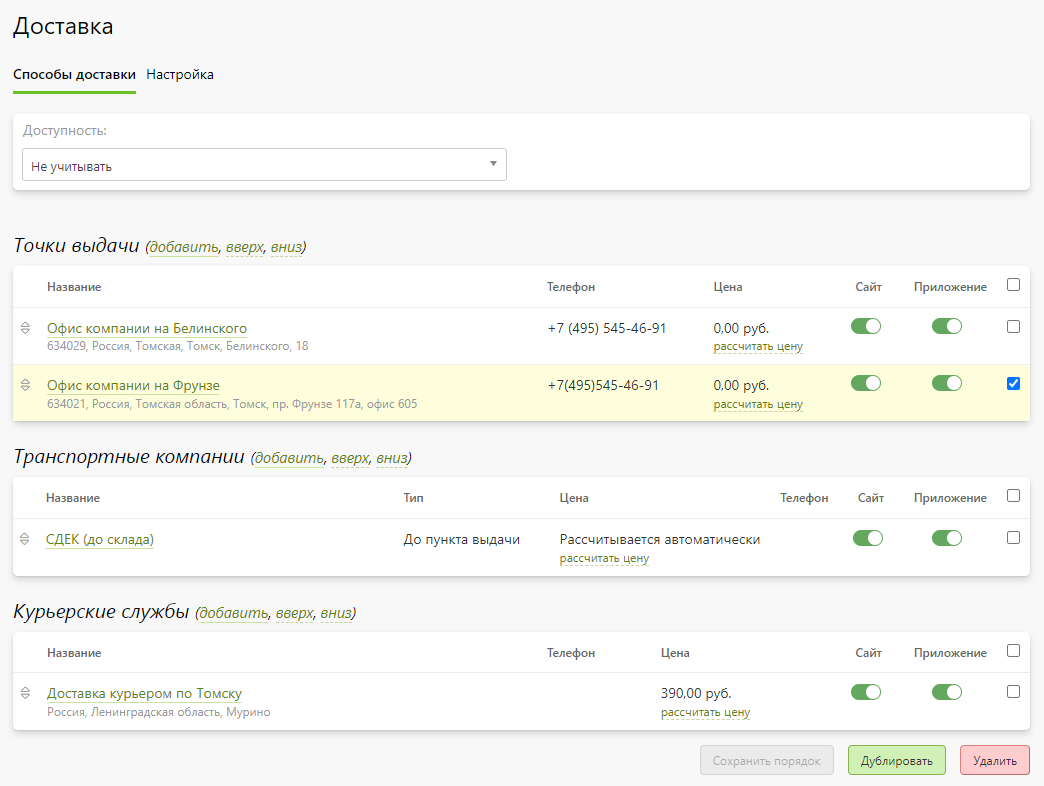
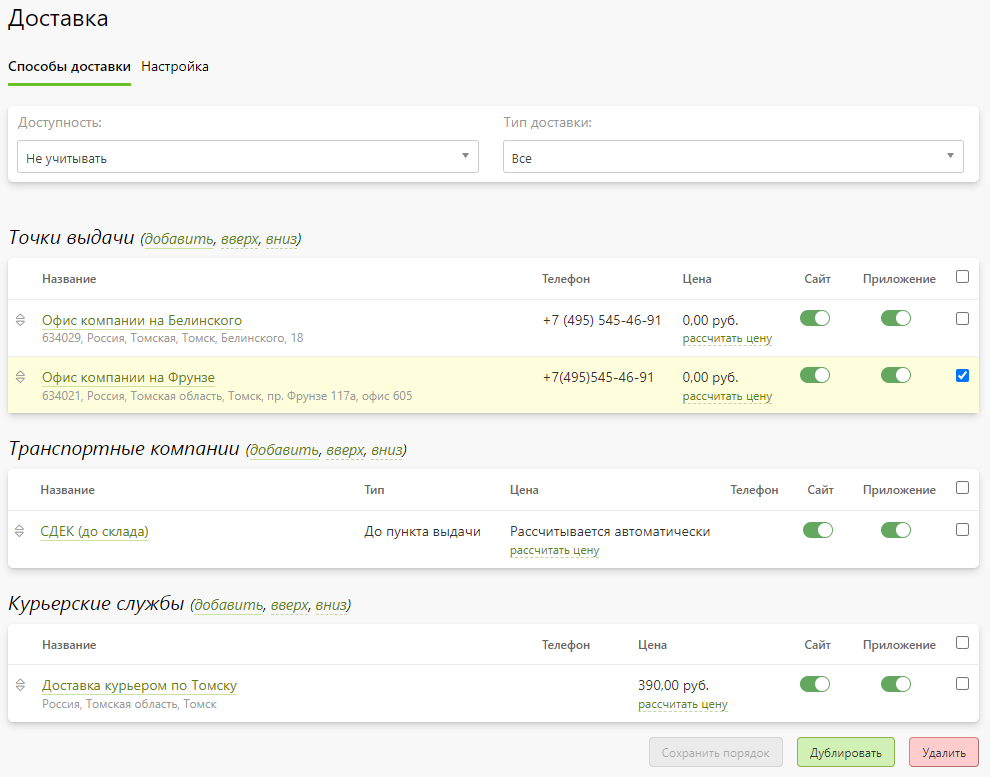
мелочи

diff --git a/docs/orders/report.md b/docs/orders/report.md
@@ -3,16 +3,41 @@
 ## Статусы заказов
 * В данном разделе представлена общая статистика по заказам, отражающая объем продаж в заданном временном интервале.
 
-* Данный раздел включает три основных блока:
+* Он содержит три основных блока:
     + __Фильтр__ - критерии, по которым нужно получить статистику в заданном временном интервале.
-    + __Статистика__ - данные по заказам, соответствующим фильтру в заданном временном интервале.
-    + __Продукция__ - категории продуктов из заказов предыдущего блока в разрезе количества с стоимости.
+    ![](../_media/order/order-report-filter.png)
+    + __Статистика__ - агрегированные данные по заказам, соответствующим фильтру.
+    ![](../_media/order/order-report-statistic.png)
+    + __Продукция__ - категории продуктов и товаров в разрезе количества и стоимости.
+    ![](../_media/order/order-report-products.png)
 
-* Также в разделе статистике данного разделе можно:
+* Также в блоке "__Статистика__" можно:
     + __Скачать статистику по заказам__ - скачать список заказов в эксель-файле.
     + __Скачать детализацию по заказам__ - скачать список заказов с доп. полями в эксель-файле.
-    + __Скачать список товаров__ - скачать список объединенных в группы категорий в эксель-файле.
+    + __Скачать список товаров__ - скачать список объединенных по группам категорий в эксель-файле.
 
 ## Поступление денег
+* В данном разделе представлена информация о поступлении денежнывх средств по заказам в заданном временном интервале. Она, например, позволяет проводить сверки по остаткам в кассе, на расчетном счету или на балансе платежной системы.
+
+* Раздел содержит три основных блока:
+    + __Фильтр__ - критерии, по которым нужно получить статистику в заданном временном интервале.
+    ![](../_media/order/order-report-finance-filter.png)
+    + __Статистика__ - агрегированные данные по поступлениям средств по источникам оплаты, способам доставки и подрядным заказам.
+    ![](../_media/order/order-report-finance-statistic.png)
+    + __Поступления по заказам__ - список поступлений денежных средств по заказам с указанием номера заказа, его состава, способа оплаты, суммы, даты и менеджера.
+    ![](../_media/order/order-report-finance-orders.png)
+
+* Также в блоке "__Статистика__" можно скачать список поступлений по заказам в эксель-файле.
 
 ## Популярность шаблонов
+* В данном разделе представлена информация о популярности шаблонов при оформлении заказов. Например, эта информация может быть полезна при пополнении банка дизайнов, выбирая при разработки новых шаблонов наибоее популярные тематики.
+
+* Раздел содержит три основных блока:
+    + __Фильтр__ - критерии, по которым нужно получить статистику в заданном временном интервале.
+    ![](../_media/order/order-report-template-filter.png)
+    + __Статистика__ - диаграмма популярности шаблонов, соответствующим фильтру.
+    ![](../_media/order/order-report-template-statistic.png)
+    + __Список шаблонов__ - список шаблонов с процентной долей использования и количеством заказов.
+    ![](../_media/order/order-report-template-list.png)
+
+* Также в блоке "__Статистика__" можно скачать список шаблонов с информацией об их популярности в эксель-файле.

diff --git a/docs/orders/edit.md b/docs/orders/edit.md
@@ -198,7 +198,7 @@
 ## Обсуждение
 * Данный раздел служит как для обмена сообщениями и файлами между клиентом и сотрудниками компании, так и для согласования/утверждения макета, когда по заказу требуется разработка уникального дизайна.
 
-* Он состоит из пяти основных блоков:
+* Он содержит пять основных блоков:
     + __Утвержденный макет__ - утвержденный клиентом макет заказа (по умолчанию совпадает с обложкой).
     ![](../_media/order/order-discuss-cover.png)
     + __Слежение__ - получение уведомлений о размещении комментариев к данному заказу.
@@ -212,7 +212,7 @@
 
 ## История
 * В данном разделе содержиться история различных событий по заказу. Например, это может быть изменение статуса или редактирование позиций.
-* Он состоит из двух основных блоков:
+* Он содержит два основных блоков:
     + __Фильтр__ - фильтрация зафиксированных событий по типу:    
         + __Общее__ - изменение содержимого, оплаты или статуса заказа.
         + __Доставка__ - изменение доставки заказа.

diff --git a/docs/orders/list.md b/docs/orders/list.md
@@ -16,11 +16,11 @@
 
 * При удалении любого параметра фильтра со страницы заказов автоматически создается новый временный фильтр.
 
+![](../_media/order/order-group.png ':size=80%')
+
 ## Работа с заказами
-* В системе предусмотрено два варианта отображения заказов:
-    + __Списком__ (по умолчанию).
-    + __Таблицей__. 
-    
+* В системе предусмотрено два варианта отображения заказов: __Списком__ и __Таблицей__. По умолчанию используется первый вариант, однако второй из-за своей лаконичности может быть более удобен при использовании Pixlpark в качестве CRM-системы. 
+
 * Настроить отображение заказов и панель настройки фильтров можно в разделе "__Настройка / Отображение заказов__".
 
 * Над каждым заказом из списка можно выполнить следующие действия:
@@ -34,3 +34,4 @@
     + Перейти в ленту обсуждения.
     + Связать выделенные заказы.
     + Отправить в транспортную компанию выделенные заказы.
+* ![](../_media/order/order-list.png)

diff --git a/docs/site/shippings.md b/docs/site/shippings.md
@@ -7,7 +7,7 @@
     + __Курьерская служба__ - доставка заказа по указанному адресу внутренней или внешней курьерской службой в рамках текущего региона.
 
 * Также на странице можно:
-    + Отфильтровать доставки по их доступности.
+    + Отфильтровать доставки по их доступности и типу.
     + Перейти в карточку доставки.
     + Добавить новую доставку.
     + Рассчитать стоимость доставки заказа с указанным весом.
